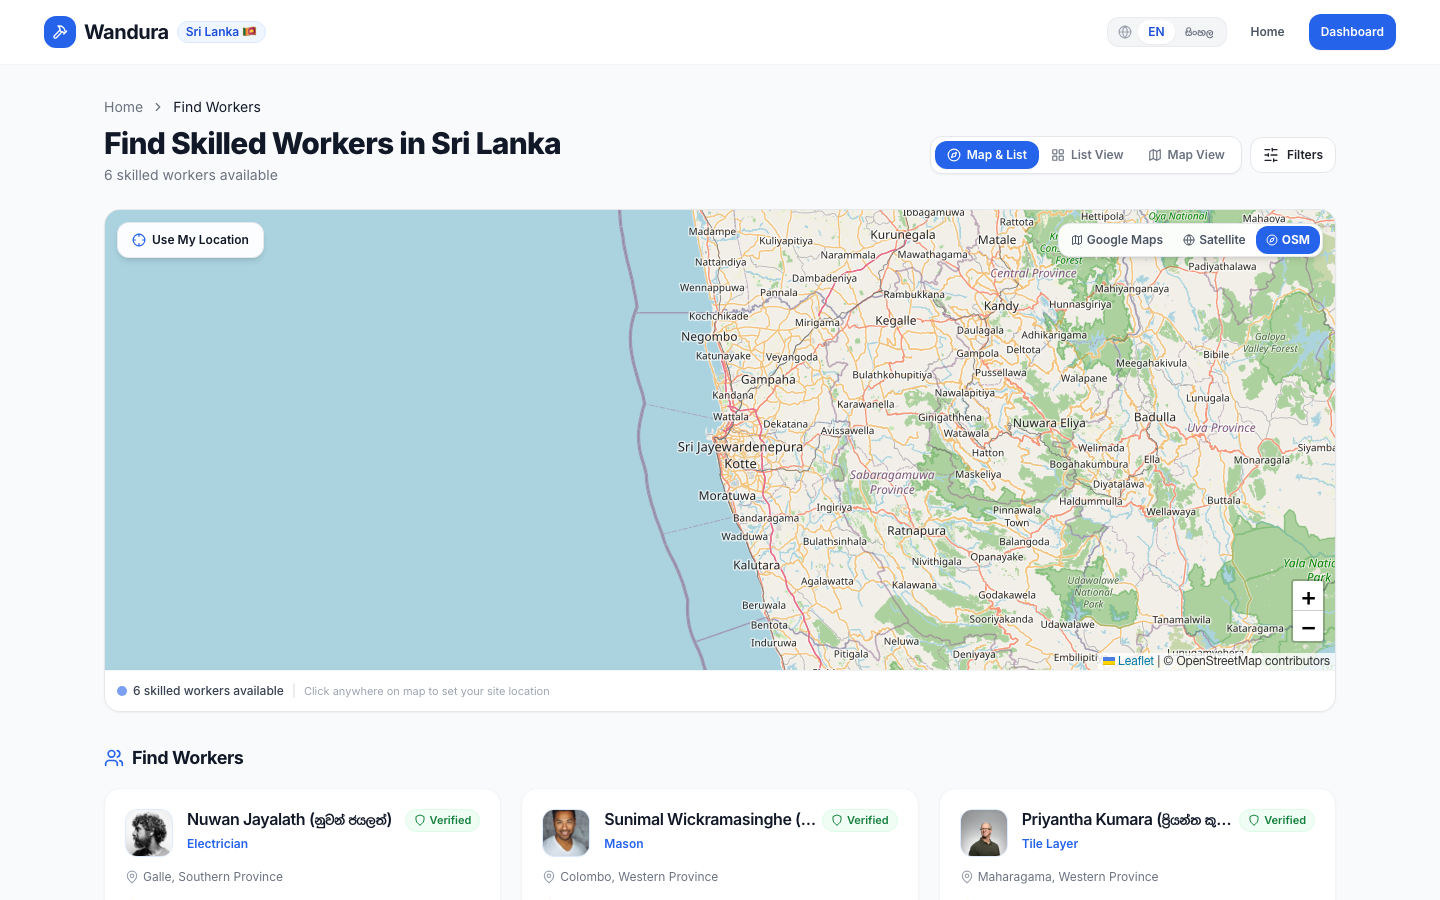
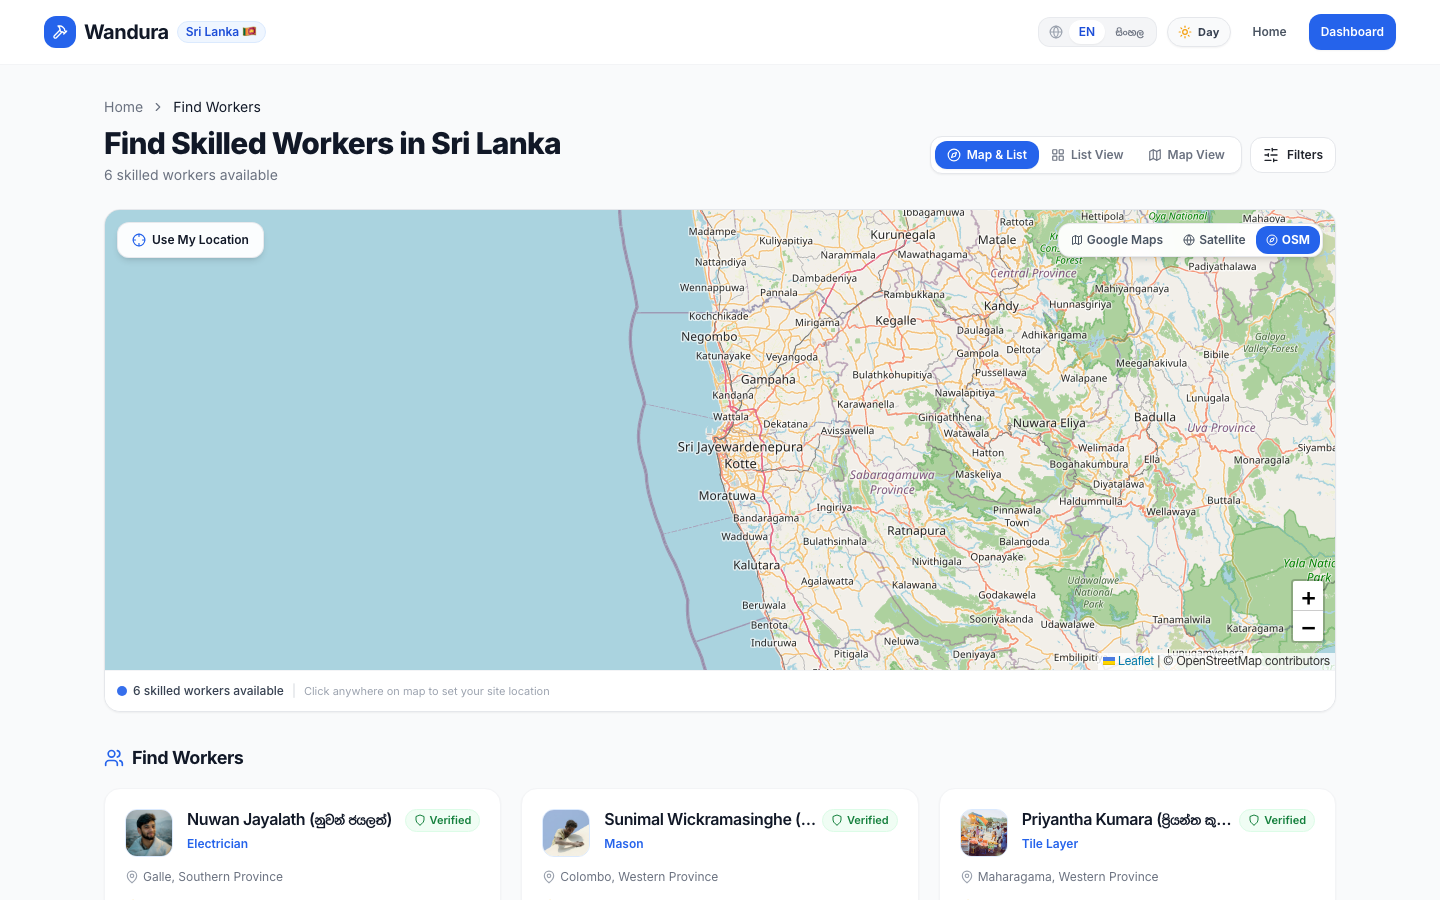
feat: replace worker and trade photos with authentic Sri Lankan tradespeople and verified portfolio work photos

diff --git a/prisma/seed.ts b/prisma/seed.ts
@@ -107,7 +107,7 @@ async function main() {
       name: 'Sunimal Wickramasinghe (සුනිමල් වික්රමසිංහ)',
       role: Role.WORKER,
       phone: '+94 77 987 6543',
-      image: 'https://images.unsplash.com/photo-1507003211169-0a1dd7228f2d?w=400&auto=format&fit=crop&q=80',
+      image: '/images/workers/sunimal.jpg',
       emailVerified: true,
       workerProfile: {
         create: {
@@ -117,9 +117,9 @@ async function main() {
           experience: 12,
           bio: 'වසර 12 ක පළපුරුද්දක් සහිත ප්රවීණ මේසන් බාස්. නිවාස ඉදිකිරීම්, කොන්ක්රීට් සහ ප්ලාස්ටර් වැඩ සඳහා විශ්වාසනීය සේවය.',
           portfolioImages: [
-            'https://images.unsplash.com/photo-1541888946425-d0fbb18086f6?w=800&auto=format&fit=crop&q=80',
+            '/images/portfolio/masonry.jpg',
+            '/images/portfolio/brickwork.jpg',
             'https://images.unsplash.com/photo-1504307651254-35680f356dfd?w=800&auto=format&fit=crop&q=80',
-            'https://images.unsplash.com/photo-1581094288338-2314dddb7ece?w=800&auto=format&fit=crop&q=80',
           ],
           isVerified: true,
           isAvailable: true,
@@ -145,7 +145,7 @@ async function main() {
       name: 'Kasun Sampath Fernando (කසුන් සම්පත්)',
       role: Role.WORKER,
       phone: '+94 72 876 5432',
-      image: 'https://images.unsplash.com/photo-1500648767791-00dcc994a43e?w=400&auto=format&fit=crop&q=80',
+      image: '/images/workers/kasun.jpg',
       emailVerified: true,
       workerProfile: {
         create: {
@@ -155,8 +155,8 @@ async function main() {
           experience: 8,
           bio: 'ග්රිල්, ගේට්ටු, යකඩ වහල පලංචි සහ රූෆින් ට්රස් සවි කිරීම පිළිබඳ විශේෂඥ වෙල්ඩින් කාර්මික.',
           portfolioImages: [
+            '/images/portfolio/welding.jpg',
             'https://images.unsplash.com/photo-1504328345606-18bbc8c9d7d1?w=800&auto=format&fit=crop&q=80',
-            'https://images.unsplash.com/photo-1581092160607-ee22621dd758?w=800&auto=format&fit=crop&q=80',
           ],
           isVerified: true,
           isAvailable: true,
@@ -182,7 +182,7 @@ async function main() {
       name: 'Priyantha Kumara (ප්රියන්ත කුමාර)',
       role: Role.WORKER,
       phone: '+94 78 765 4321',
-      image: 'https://images.unsplash.com/photo-1472099645785-5658abf4ff4e?w=400&auto=format&fit=crop&q=80',
+      image: '/images/workers/priyantha.jpg',
       emailVerified: true,
       workerProfile: {
         create: {
@@ -192,7 +192,7 @@ async function main() {
           experience: 9,
           bio: 'Rocell, Tiara ටයිල් ඇල්ලීම, නාන කාමර සහ පැන්ට්රි ටයිල් වැඩ නිවැරදි නිමාවකින් ඉටු කරනු ලැබේ.',
           portfolioImages: [
-            'https://images.unsplash.com/photo-1584622650111-993a426fbf0a?w=800&auto=format&fit=crop&q=80',
+            '/images/portfolio/tiling.jpg',
             'https://images.unsplash.com/photo-1600585154340-be6161a56a0c?w=800&auto=format&fit=crop&q=80',
           ],
           isVerified: true,
@@ -219,7 +219,7 @@ async function main() {
       name: 'Bandara Jayasinghe (බණ්ඩාර ජයසිංහ)',
       role: Role.WORKER,
       phone: '+94 75 654 3210',
-      image: 'https://images.unsplash.com/photo-1519085360753-af0119f7cbe7?w=400&auto=format&fit=crop&q=80',
+      image: '/images/workers/bandara.jpg',
       emailVerified: true,
       workerProfile: {
         create: {
@@ -229,8 +229,8 @@ async function main() {
           experience: 15,
           bio: 'වහල ගැසීම, දොර ජනෙල් උළුවහු සවිකිරීම සහ සියලුම වඩු කාර්මික කටයුතු පිළිබඳ පළපුරුදු වඩු බාස්.',
           portfolioImages: [
+            '/images/portfolio/carpentry.jpg',
             'https://images.unsplash.com/photo-1533090161767-e6ffed986c88?w=800&auto=format&fit=crop&q=80',
-            'https://images.unsplash.com/photo-1513694203232-719a280e022f?w=800&auto=format&fit=crop&q=80',
           ],
           isVerified: true,
           isAvailable: true,
@@ -256,7 +256,7 @@ async function main() {
       name: 'Nuwan Jayalath (නුවන් ජයලත්)',
       role: Role.WORKER,
       phone: '+94 77 543 2109',
-      image: 'https://images.unsplash.com/photo-1522075469751-3a6694fb2f61?w=400&auto=format&fit=crop&q=80',
+      image: '/images/workers/nuwan.jpg',
       emailVerified: true,
       workerProfile: {
         create: {
@@ -266,7 +266,7 @@ async function main() {
           experience: 7,
           bio: 'නිවාස හා කාර්යාල වයරිං, ත්රි-ෆේස් ලයින්, සෝලාර් සහ ට්රිප් ස්විච් ගැටළු විසඳන සහතිකලත් විදුලි කාර්මික.',
           portfolioImages: [
-            'https://images.unsplash.com/photo-1621905251189-08b45d6a269e?w=800&auto=format&fit=crop&q=80',
+            '/images/portfolio/electrical.jpg',
             'https://images.unsplash.com/photo-1509391365360-2e959784a276?w=800&auto=format&fit=crop&q=80',
           ],
           isVerified: true,
@@ -293,7 +293,7 @@ async function main() {
       name: 'Nimal Siriwardena (නිමල් සිරිවර්ධන)',
       role: Role.WORKER,
       phone: '+94 71 432 1098',
-      image: 'https://images.unsplash.com/photo-1506794778202-cad84cf45f1d?w=400&auto=format&fit=crop&q=80',
+      image: '/images/workers/nimal.jpg',
       emailVerified: true,
       workerProfile: {
         create: {
@@ -303,7 +303,7 @@ async function main() {
           experience: 11,
           bio: 'ජල නල එළීම, බට පිපිරීම් අලුත්වැඩියාව, කොමඩ් හා සින්ක් සවිකිරීම් සහ වෝටර් මෝටර් සවි කිරීමේ ප්රවීණ නල කාර්මික.',
           portfolioImages: [
-            'https://images.unsplash.com/photo-1585704032915-c3400ca199e7?w=800&auto=format&fit=crop&q=80',
+            '/images/portfolio/plumbing.jpg',
             'https://images.unsplash.com/photo-1584622650111-993a426fbf0a?w=800&auto=format&fit=crop&q=80',
           ],
           isVerified: true,

diff --git a/app/page.tsx b/app/page.tsx
@@ -316,7 +316,7 @@ export default function HomePage() {
                         alt="Sunimal Wickramasinghe - Verified Mason"
                         className="w-full h-full object-cover"
                         onError={(e) => {
-                          e.currentTarget.src = 'https://images.unsplash.com/photo-1507003211169-0a1dd7228f2d?w=300&auto=format&fit=crop&q=80'
+                          e.currentTarget.src = 'https://images.unsplash.com/photo-1644331852140-fca65511e6d2?w=300&auto=format&fit=crop&q=80'
                         }}
                       />
                       <span className="absolute bottom-0 right-0 w-3.5 h-3.5 bg-green-500 border-2 border-white dark:border-slate-900 rounded-full" />
